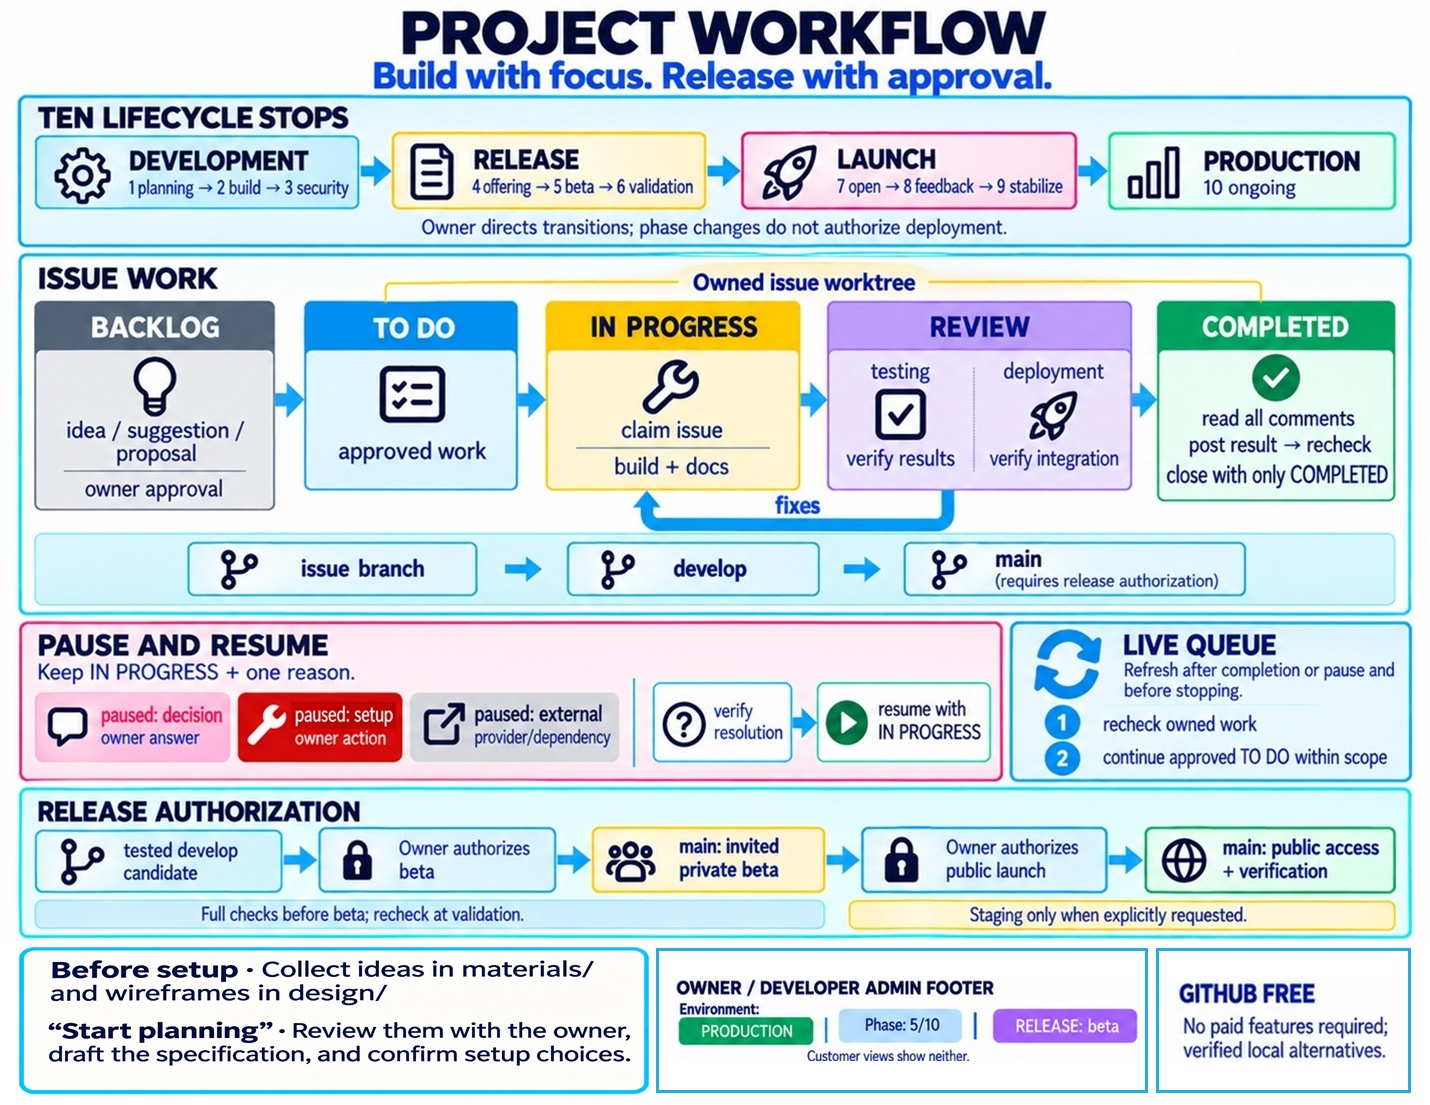
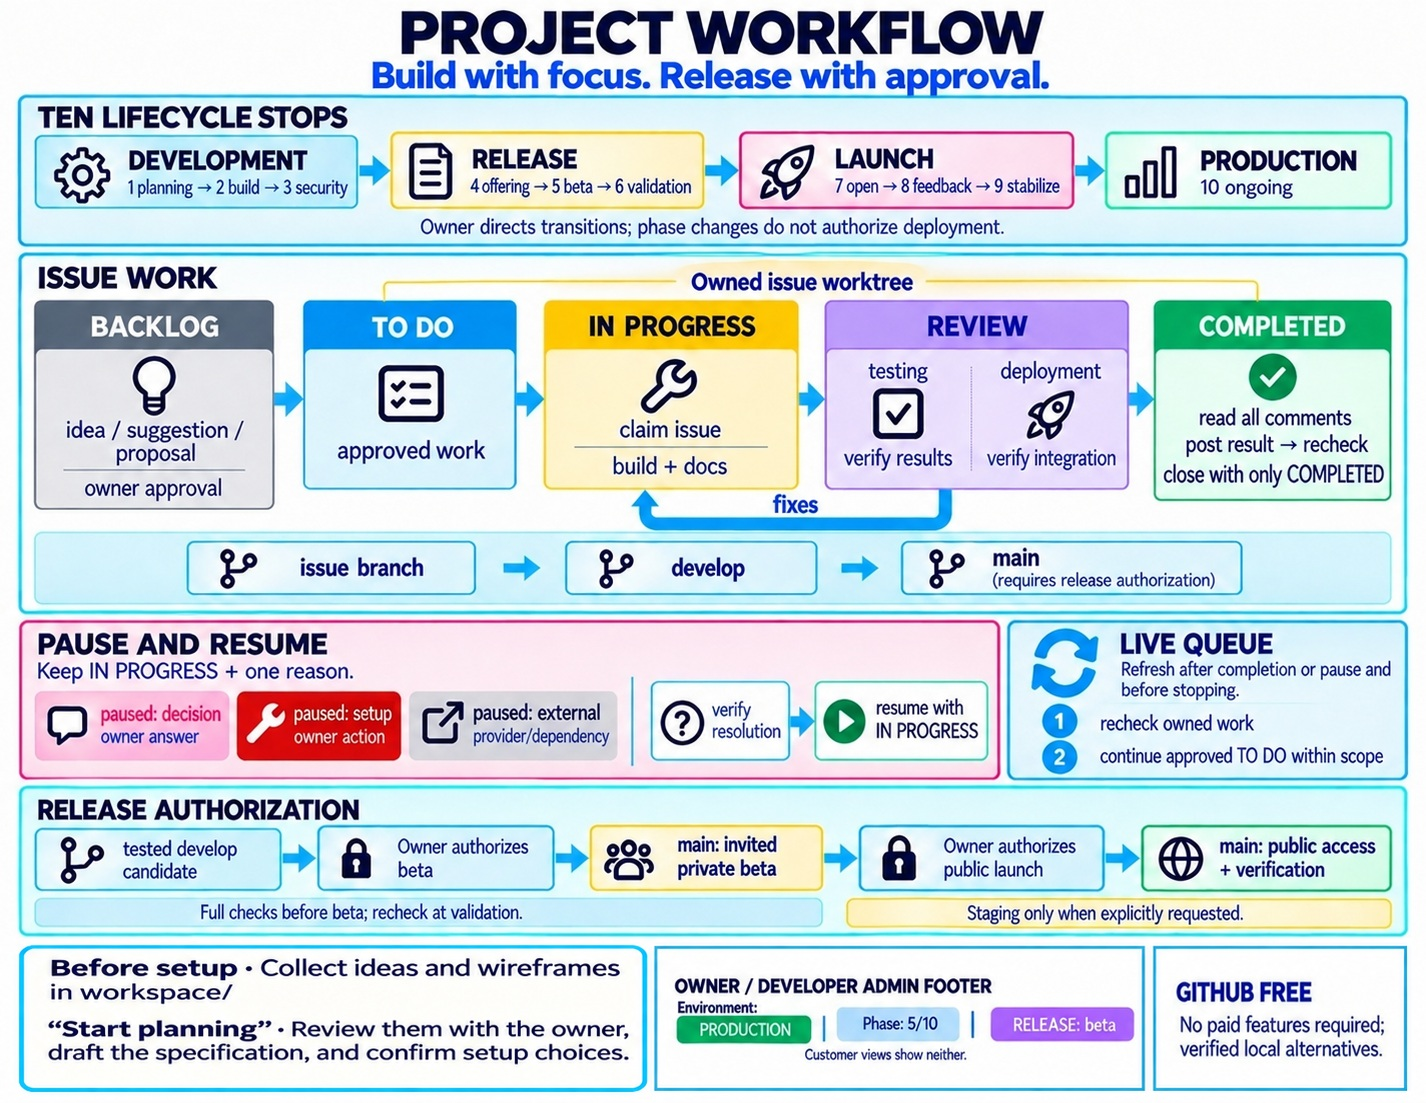
Organize working materials under workspace (#99)

diff --git a/template/standards/documentation.md b/template/standards/documentation.md
@@ -18,7 +18,7 @@ Applicable customer policies use `docs/public/legal/` under [legal.md](legal.md)
 - Update affected pages with every issue that changes how the application works. Documentation is part of the implementation, not a later cleanup task. Do not mark the issue complete or move to the next task with required documentation outstanding.
 - Use Mermaid or other useful diagrams freely to explain structure and behavior. Keep editable diagram sources with the docs and verify they render in the intended viewer.
 - Commit affected documentation alongside the implementation and verify its integration into `develop`, including working links and assets. Documentation completion requires current source files, not a separate wiki synchronization or publication.
-- Keep technical docs private. For public application repositories, place `docs/internal/`, working materials such as meeting notes and briefs in `materials/`, and unpublished `design/` drafts in a separate private repository. Use approved protected storage for materials that belong outside Git. Include only materials and design assets approved for public sharing in public Git history. Reference corresponding changes without exposing private details and verify delivery in each location. Exclude internal docs from application bundles and public hosting output even when the source repository is private.
+- Keep technical docs private. For public application repositories, place `docs/internal/`, working materials such as meeting notes and briefs in `workspace/`, and unpublished `design/` drafts in a separate private repository. Use approved protected storage for materials that belong outside Git. Include only materials and design assets approved for public sharing in public Git history. Reference corresponding changes without exposing private details and verify delivery in each location. Exclude internal docs from application bundles and public hosting output even when the source repository is private.
 - Derive public and administrator guides from the technical docs, adapting them for their audience. Once a set exists, update its affected drafts with each issue before completion. Publish only documentation matching the released version from `main` through the authorized release process.
 - Build public documentation from `docs/public/` and administrator documentation from `docs/admin/`, with explicitly selected assets for each. Exclude private docs and working materials from published output. Record each enabled set's source, destination, build command, and intended audience in project setup notes; verify the resulting output and links.
 - `docs/admin/` is an audience designation, not access control. Keep restricted administrator sources in a private repository and serve their output through the existing authenticated administrator area or other authorized private delivery. Verify unauthorized users cannot access restricted pages or assets. Publicly publish admin guides only when approved for public readers.
@@ -30,7 +30,7 @@ Adopting Blueprint means organizing the entire application repository according 
 
 Operating guides live in `standards/`, mirroring the pinned source’s `template/standards/`; the agent entry points stay at the root. Place each guide at its `standards/` path, reconciling local edits and occupied destinations, and match by content and recorded provenance so unrelated same-name project files stay in place. Update links from root files, installed skills, scripts and setup prompts, then verify guide-to-guide links and links back to `../AGENTS.md`.
 
-1. Inventory every root entry, including hidden paths, and inspect the contents and consumers of directories being consolidated. Map source code, tests, scripts, assets, project knowledge and tool-specific files by purpose. Merge equivalent directories wherever the layout provides a suitable home. Verify directories required by the framework against its documented layout and record them as a group. Give an individual reason for each retained directory outside both layouts, such as a packaging requirement or a distinct application purpose. Map working documents to `materials/documents/`, notes to `materials/notebook/`, and canvases and drawings to `materials/drawings/`. Consolidate approved brand choices, UI guidance and applicable design checks into `design/README.md`. Reconcile any existing guide and local exceptions before deleting duplicate sources. Keep editable artwork alongside it and verify the settings view against the approved guide and theme values. In public repositories keep confidential strategy and unpublished drafts in protected storage. Consolidate repository skills under `.agents/skills/` with their scripts, references and assets. Inspect existing links before moving a skill, reconcile same-name destinations and verify discovery from each selected tool before deleting redundant copies. Route general agent instructions and invokable profiles under [project workspace](project.md#project-workspace). Classify by content before merging occupied destinations. Preserve framework assets and tool-installed resources. Move nested documentation into root `docs/`, preserving audience boundaries and repairing links and build inputs. Record source paths, collisions, tracked/untracked/ignored content, access restrictions, discovery paths, publishing inputs and recovery destinations. Coordinate moves with active editors.
+1. Inventory every root entry, including hidden paths, and inspect the contents and consumers of directories being consolidated. Map source code, tests, scripts, assets, project knowledge and tool-specific files by purpose. Merge equivalent directories wherever the layout provides a suitable home. Verify directories required by the framework against its documented layout and record them as a group. Give an individual reason for each retained directory outside both layouts, such as a packaging requirement or a distinct application purpose. Map working documents to `workspace/documents/`, notes to `workspace/notebook/`, and canvases, wireframes, sketches, inspiration and mockups to `workspace/drawings/`. Reconcile occupied `workspace/` paths and merge existing working materials by purpose, preserving content and access before deleting emptied redundant directories. Consolidate approved brand choices, UI guidance and applicable design checks into `design/README.md`. Reconcile any existing guide and local exceptions before deleting duplicate sources. Keep editable artwork alongside it and verify the settings view against the approved guide and theme values. In public repositories keep confidential strategy and unpublished drafts in protected storage. Consolidate repository skills under `.agents/skills/` with their scripts, references and assets. Inspect existing links before moving a skill, reconcile same-name destinations and verify discovery from each selected tool before deleting redundant copies. Route general agent instructions and invokable profiles under [project workspace](project.md#project-workspace). Classify by content before merging occupied destinations. Preserve framework assets and tool-installed resources. Move nested documentation into root `docs/`, preserving audience boundaries and repairing links and build inputs. Record source paths, collisions, tracked/untracked/ignored content, access restrictions, discovery paths, publishing inputs and recovery destinations. Coordinate moves with active editors.
 2. Move tracked content with Git-aware moves where practical; preserve useful content and history without overwriting collisions. Include required attachments, canvas dependencies and relative references. Use an intermediate path for case-only renames on case-insensitive filesystems. Private material stays in protected storage; for public application repositories, use the corresponding workspace paths in a separate private repository and record verified locations without copying private content into public Git history. Keep framework/runtime and discovery-required files in supported locations under the workspace rule.
 3. Repair links and path consumers across instructions, skills, scripts, imports, documentation generators, CI, deployment/publishing allowlists, ignore/encryption attributes, monitoring and backup/restore inventories. Preserve the protection of each secret-bearing file at its destination and verify staged ciphertext before committing. Update authoritative paths in root `AGENTS.md` and each configured tool. Replace references to relocated content; keep no competing authoritative copy or speculative application redirect.
 4. Verify all moved content and attachments, relative links and heading anchors, case-sensitive paths, skill/agent discovery and applicable builds/tests. Preview public/admin output and verify private content is excluded; verify backup coverage and changed restore procedures. Confirm application behavior and production routing are preserved. A real technical constraint requires a recorded blocker and resolution plan; continue independent migration work without deleting the only usable copy.

diff --git a/README.md b/README.md
@@ -4,7 +4,7 @@ Project Blueprint gives each project a consistent start. After setup, the projec
 
 Initial setup always includes an owner interview, using the owner's private standing preferences and simpler defaults for small projects, optional Monid and recorded maintenance/reboot choices. Establish the [approved brand foundation](template/design/README.md#brand-foundation-and-settings) before styled UI; each application provides a Brand Guidelines settings page, reusing existing identity and tools. Verify [weekly Blueprint checking and the daily updater](template/standards/updates.md#periodic-blueprint-maintenance) during setup.
 
-![Before setup, collect ideas in materials/ and wireframes in design/. When the owner says “start planning,” review them together, draft the specification, and confirm setup choices. Application workflow with ten stops: DEVELOPMENT planning, build and security; RELEASE offering, beta and validation; LAUNCH open, feedback and stabilize; PRODUCTION ongoing. Board statuses: dark gray BACKLOG, blue TO DO, yellow IN PROGRESS, lavender REVIEW with testing and deployment, green COMPLETED. Owned issue worktrees follow issue branch to develop to authorized main. Paused work stays IN PROGRESS with pink decision, red setup or silver external reason. Refresh the live queue after completion or pause and before stopping. Explicit authorization precedes private beta and public launch. Owner/developer admin footer shows environment and numbered phase; customer views show neither. GitHub Free requires no paid features](assets/project-workflow-landscape.jpg)
+![Before setup, collect ideas and wireframes in workspace/. When the owner says “start planning,” review them together, draft the specification, and confirm setup choices. Application workflow with ten stops: DEVELOPMENT planning, build and security; RELEASE offering, beta and validation; LAUNCH open, feedback and stabilize; PRODUCTION ongoing. Board statuses: dark gray BACKLOG, blue TO DO, yellow IN PROGRESS, lavender REVIEW with testing and deployment, green COMPLETED. Owned issue worktrees follow issue branch to develop to authorized main. Paused work stays IN PROGRESS with pink decision, red setup or silver external reason. Refresh the live queue after completion or pause and before stopping. Explicit authorization precedes private beta and public launch. Owner/developer admin footer shows environment and numbered phase; customer views show neither. GitHub Free requires no paid features](assets/project-workflow-landscape.jpg)
 
 Application workflow overview. [Open the full-size landscape JPEG](assets/project-workflow-landscape.jpg) (11 × 8.5 inches).
 
@@ -12,7 +12,7 @@ Application workflow overview. [Open the full-size landscape JPEG](assets/projec
 
 | Situation | Your action |
 | --- | --- |
-| Explore an idea before setup | Collect notes and references in `materials/` and UI wireframes in `design/`. Say “start planning” when you want to [review them together and draft the project specification](template/standards/project.md#setup-interview). |
+| Explore an idea before setup | Collect notes, references and early wireframes in `workspace/`. Say “start planning” when you want to [review them together and draft the project specification](template/standards/project.md#setup-interview). |
 | Start or adopt a project | Give the agent the setup prompt below and repository access. |
 | Request implementation | Tell the agent or move an issue to `TO DO`. It refreshes the live queue, including tasks added during work. |
 | Save an idea or recommendation for an active project | Use `BACKLOG` plus one: `idea` (early thought), `suggestion` (recommended improvement), or `proposal` (developed recommendation needing a decision). Approval moves it to `TO DO` and removes the descriptor. |
@@ -85,20 +85,20 @@ Existing applications retain their framework, custom code, and data; WordPress r
 │   └── dependabot.yml  # Weekly updates for supported package ecosystems
 ├── assets/             # Runtime assets when the framework has no prescribed location
 ├── backups/            # Local recovery copies when needed; ignored and never publicly served
-├── design/             # Wireframes, UI mockups and editable brand artwork
+├── design/             # Approved design guide, system and editable brand artwork
 │   └── README.md       # This application’s design guide and implementation references
 ├── docs/               # Maintained documentation
 │   ├── admin/          # Administrator guides when needed
 │   ├── internal/       # Architecture, setup, testing and recovery
 │   └── public/         # Customer-facing guides and help
-├── materials/          # Documents, notes, and drawings used throughout the project
-│   ├── documents/      # Briefs, reference PDFs, spreadsheets and other documents
-│   ├── drawings/       # Editable diagrams, whiteboard sketches and canvases
-│   └── notebook/       # Research notes, meeting notes and working notebooks
 ├── scripts/            # Automation, maintenance and release scripts
 ├── src/                # Application source, where supported by the framework
 ├── standards/          # The rules for how this project is built and maintained
 ├── tests/              # Tests and fixtures, or use the framework’s test location
+├── workspace/          # Working materials collected from the first idea onward
+│   ├── documents/      # Briefs, reference PDFs, spreadsheets and other documents
+│   ├── drawings/       # Wireframes, sketches, diagrams, inspiration and mockups
+│   └── notebook/       # Research notes, meeting notes and working notebooks
 ├── .distignore         # WP-CLI archive exclusions when packaging from this root
 ├── .env                # Local secrets; ignored unless verified encrypted storage is selected
 ├── .env.example        # Environment variable names and placeholder values
@@ -248,7 +248,7 @@ This repository uses only `main`, with owned isolated checkouts or detached work
 
 **Start planning**
 
-> Start planning this project with me. Review what I’ve collected in `materials/` and any wireframes in `design/`. Tell me what looks settled and what still needs a decision. Use our conversation to draft or update the project specification, keeping tentative ideas clearly marked. Wait for me to say when to start building.
+> Start planning this project with me. Review the notes, documents and early wireframes I’ve collected in `workspace/` and any existing design guidance in `design/`. Tell me what looks settled and what still needs a decision. Use our conversation to draft or update the project specification, keeping tentative ideas clearly marked. Wait for me to say when to start building.
 
 **Setup**
 
@@ -256,11 +256,11 @@ This repository uses only `main`, with owned isolated checkouts or detached work
 
 **Interface design**
 
-> Build or refine this screen using `design/README.md`, any relevant wireframes in `design/`, and the `interface-design` skill. Reuse the project’s components and theme. Inspect the rendered screen in the browser, use Impeccable’s browser iteration when available, and verify the affected user flow with Playwright at the sizes required for this phase. Check that people can tell when an action is ready, in progress, successful, or failed.
+> Build or refine this screen using `design/README.md`, any relevant wireframes in `workspace/drawings/`, and the `interface-design` skill. Reuse the project’s components and theme. Inspect the rendered screen in the browser, use Impeccable’s browser iteration when available, and verify the affected user flow with Playwright at the sizes required for this phase. Check that people can tell when an action is ready, in progress, successful, or failed.
 
 **Plan the interface**
 
-> Plan this project's interface with me using the design interview in `design/README.md`. Inspect `materials/`, `design/` and any existing UI first. Reuse settled answers and ask one brief question at a time about supplied mockups, reference sites and custom options. Recommend a coordinated UI foundation and show a visual sample before implementation. Use selected design tools where helpful and record the approved direction in the existing guide.
+> Plan this project's interface with me using the design interview in `design/README.md`. Inspect `workspace/`, `design/` and any existing UI first. Reuse settled answers and ask one brief question at a time about supplied mockups, reference sites and custom options. Recommend a coordinated UI foundation and show a visual sample before implementation. Use selected design tools where helpful and record the approved direction in the existing guide.
 
 **Plan an interface redesign**
 

diff --git a/template/standards/project.md b/template/standards/project.md
@@ -4,7 +4,7 @@ During setup, fill facts/commands in [AGENTS.md](../AGENTS.md); routine tasks us
 
 ## Setup interview
 
-Before setup, collect ideas and reference material in `materials/` and UI wireframes in `design/` as needed under the [workspace layout](#project-workspace). The owner can keep collecting for as long as needed.
+Before setup, start with `workspace/` for ideas, reference material and early wireframes under the [workspace layout](#project-workspace); it can exist before a repository is connected. The owner can keep collecting for as long as needed.
 
 When the owner says “start planning,” review the available notes, documents, drawings and wireframes with them during the setup interview. Use that conversation to draft the [project specification](phases.md) from agreed goals, scope and acceptance criteria. Mark open questions and tentative ideas clearly.
 
@@ -32,7 +32,7 @@ If GSD is selected, follow its current official installation guidance. Project `
 
 ## Project workspace
 
-Use the repository root as the project workspace. Create directories when needed. Keep reference documents in `materials/documents/`, research and notes in `materials/notebook/`, and editable diagrams and canvases in `materials/drawings/`. UI mockups, wireframes and editable brand artwork belong in `design/`. Keep shipped images, icons and fonts in the framework’s asset location. During setup, fill in the project design guide with approved choices and links to the actual CSS, theme and components. Remove examples for stacks the project does not use and retain shared accessibility and responsive checks. Follow [brand guidance](../design/README.md#brand-foundation-and-settings) and maintain audience-specific [documentation](documentation.md) under root `docs/`.
+Use the repository root as the project workspace and keep working materials under `workspace/`. Create its three content directories as needed: `workspace/documents/` for reference documents, `workspace/drawings/` for early wireframes, sketches, diagrams, inspiration and mockups, and `workspace/notebook/` for research and notes. Keep approved design decisions, the design guide and editable brand artwork in root `design/`; link to relevant working drawings rather than duplicating them. Keep shipped images, icons and fonts in the framework’s asset location. During setup, fill in the project design guide with approved choices and links to the actual CSS, theme and components. Remove examples for stacks the project does not use and retain shared accessibility and responsive checks. Follow [brand guidance](../design/README.md#brand-foundation-and-settings) and maintain audience-specific [documentation](documentation.md) under root `docs/`.
 
 Keep `README.md`, `AGENTS.md`, `CLAUDE.md`, the [license](legal.md#repository-license) and [changelog](documentation.md#changelog) when needed, and local `.env` at the application root. Keep the operating guides together in `standards/` and link them from root `AGENTS.md`. Preserve framework source, test, build and deployment paths. Add workflow or container files only when the project uses them.
 

diff --git a/template/design/README.md b/template/design/README.md
@@ -11,7 +11,7 @@
 
 ## Design interview
 
-Use this interview for a new interface or an owner-requested redesign. First inspect `materials/`, `design/`, standing preferences and any working application. Reuse settled decisions; ask one brief unanswered question at a time, recommending a direction and accepting “use your judgment.”
+Use this interview for a new interface or an owner-requested redesign. First inspect `workspace/`, `design/`, standing preferences and any working application. Reuse settled decisions; ask one brief unanswered question at a time, recommending a direction and accepting “use your judgment.”
 
 1. **Do you have mockups, wireframes or brand references to follow?** Summarize what was found and confirm which materials express the intended direction.
 2. **Is there a website or application whose design you like?** Identify the specific qualities to borrow: navigation, typography, colors, spacing or controls. Adapt references to the project's identity and respect asset licenses.
